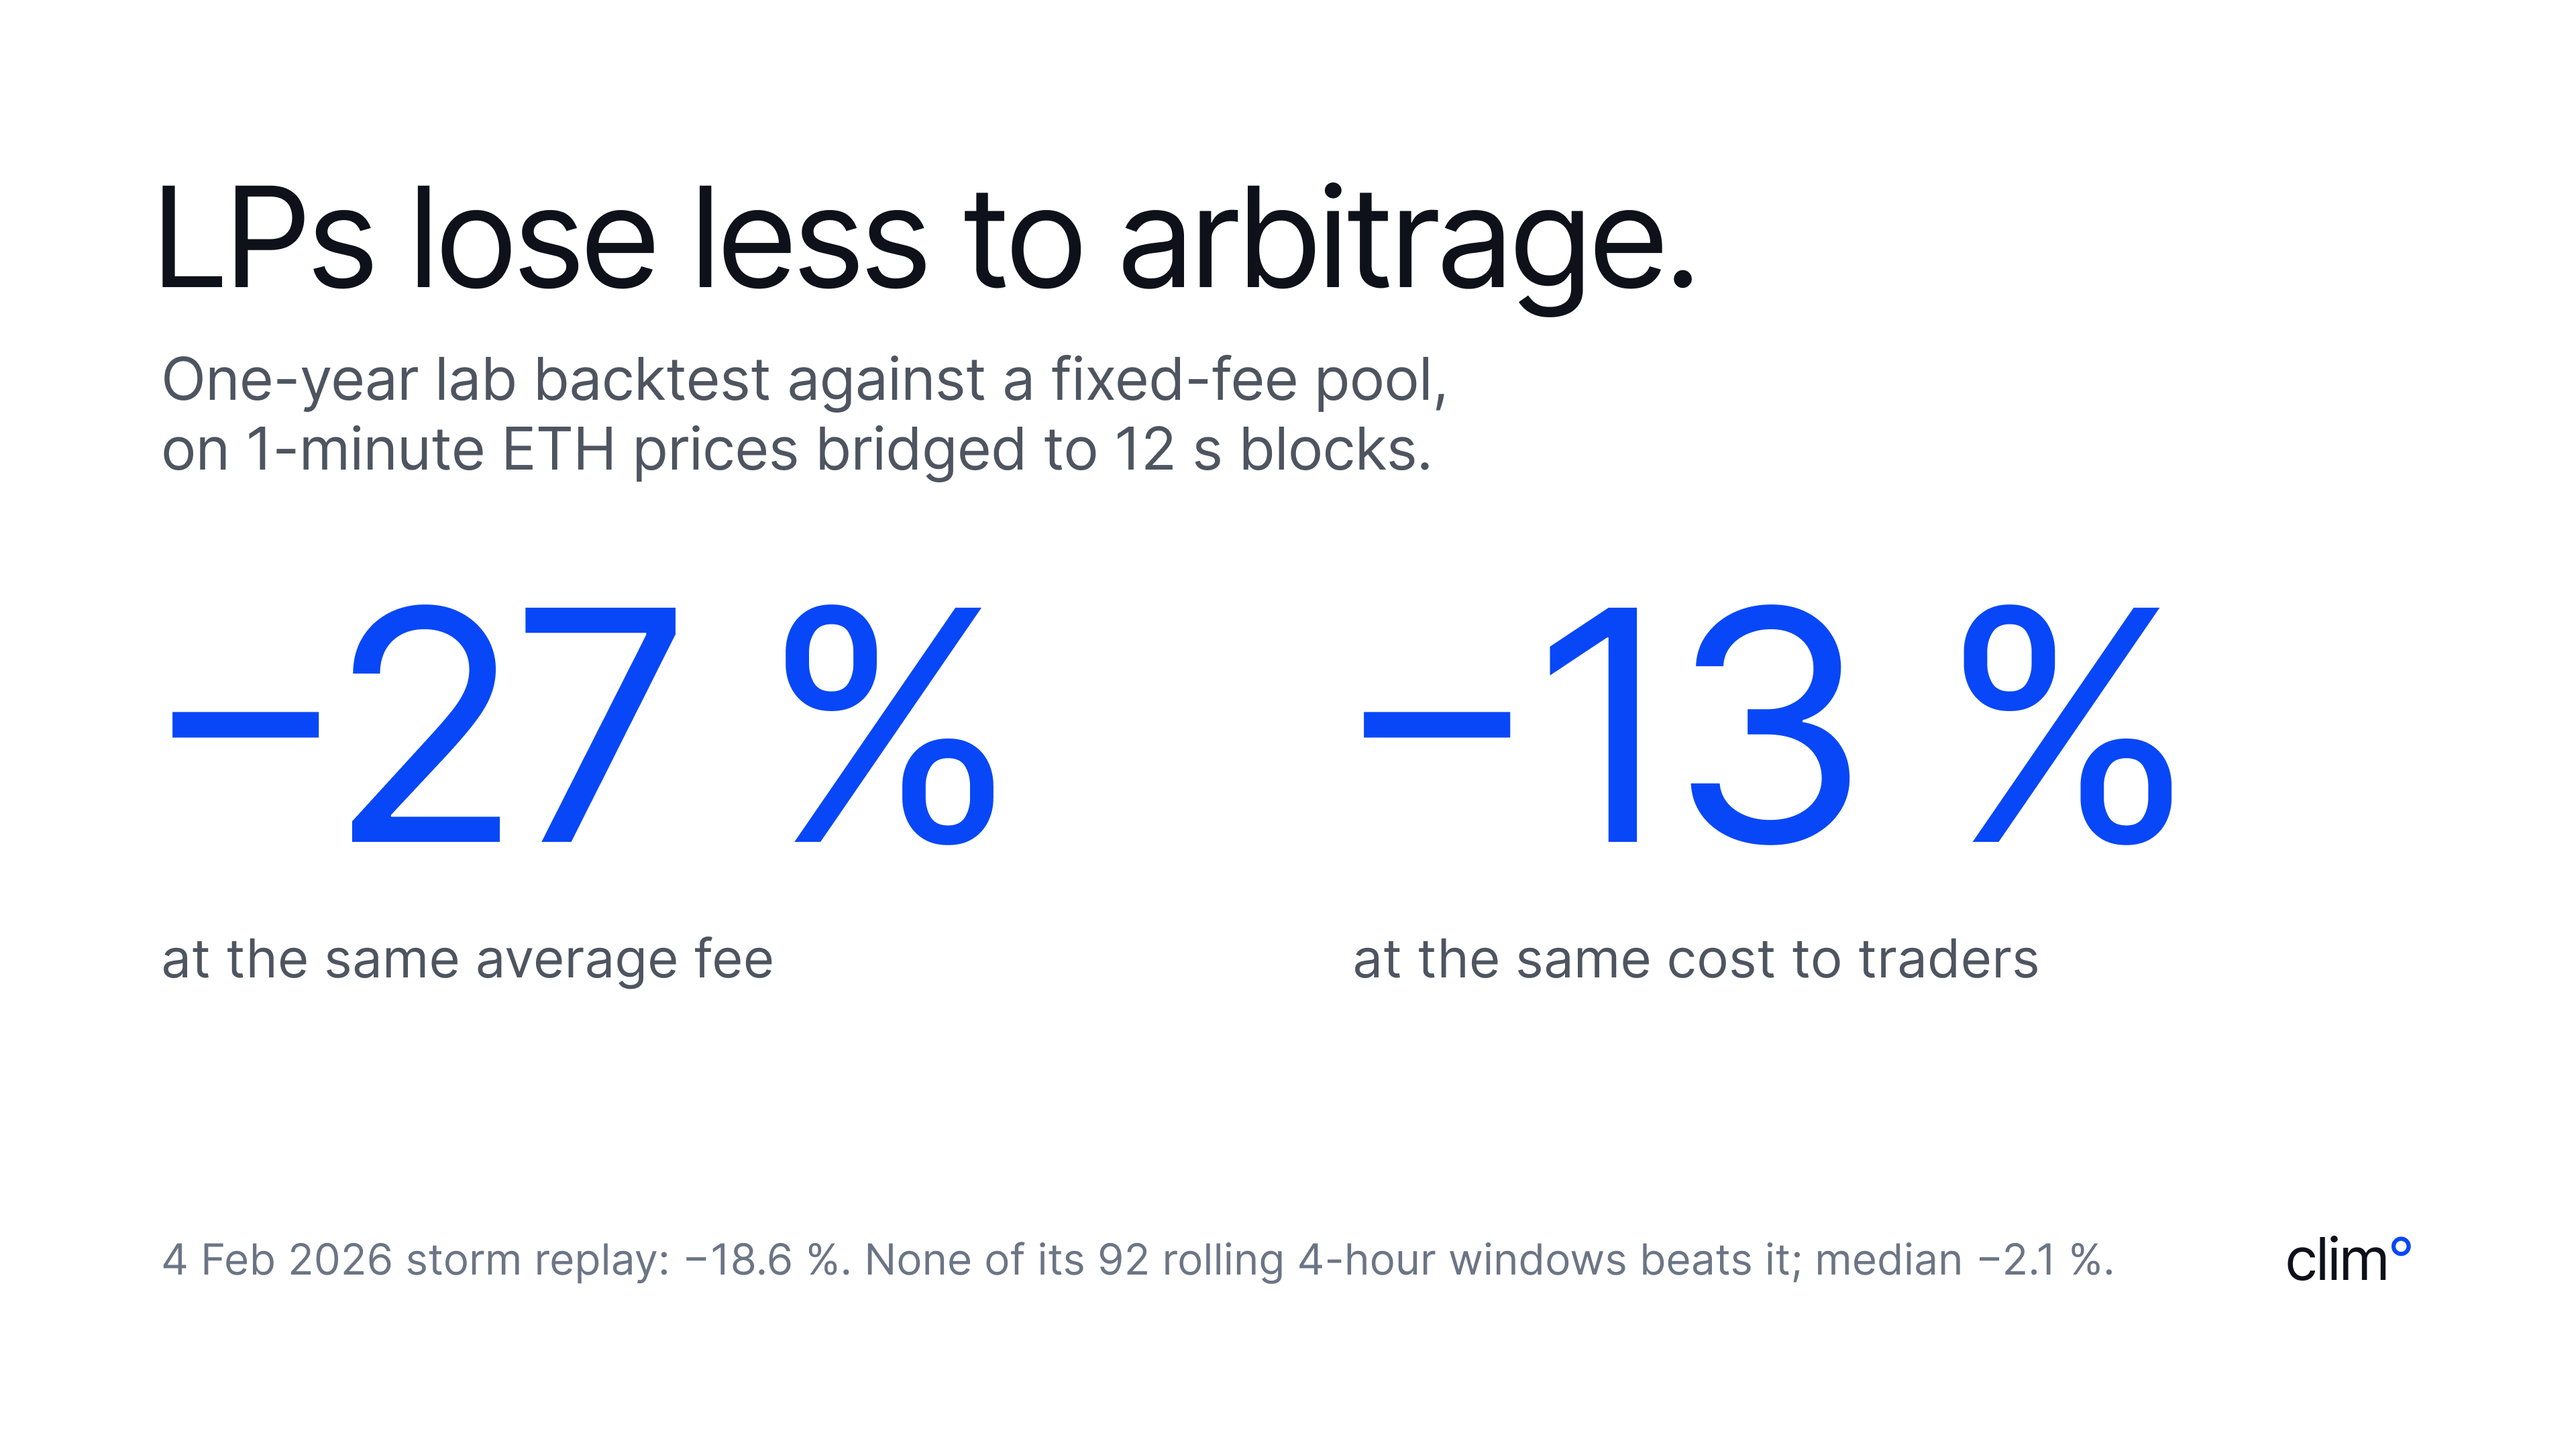
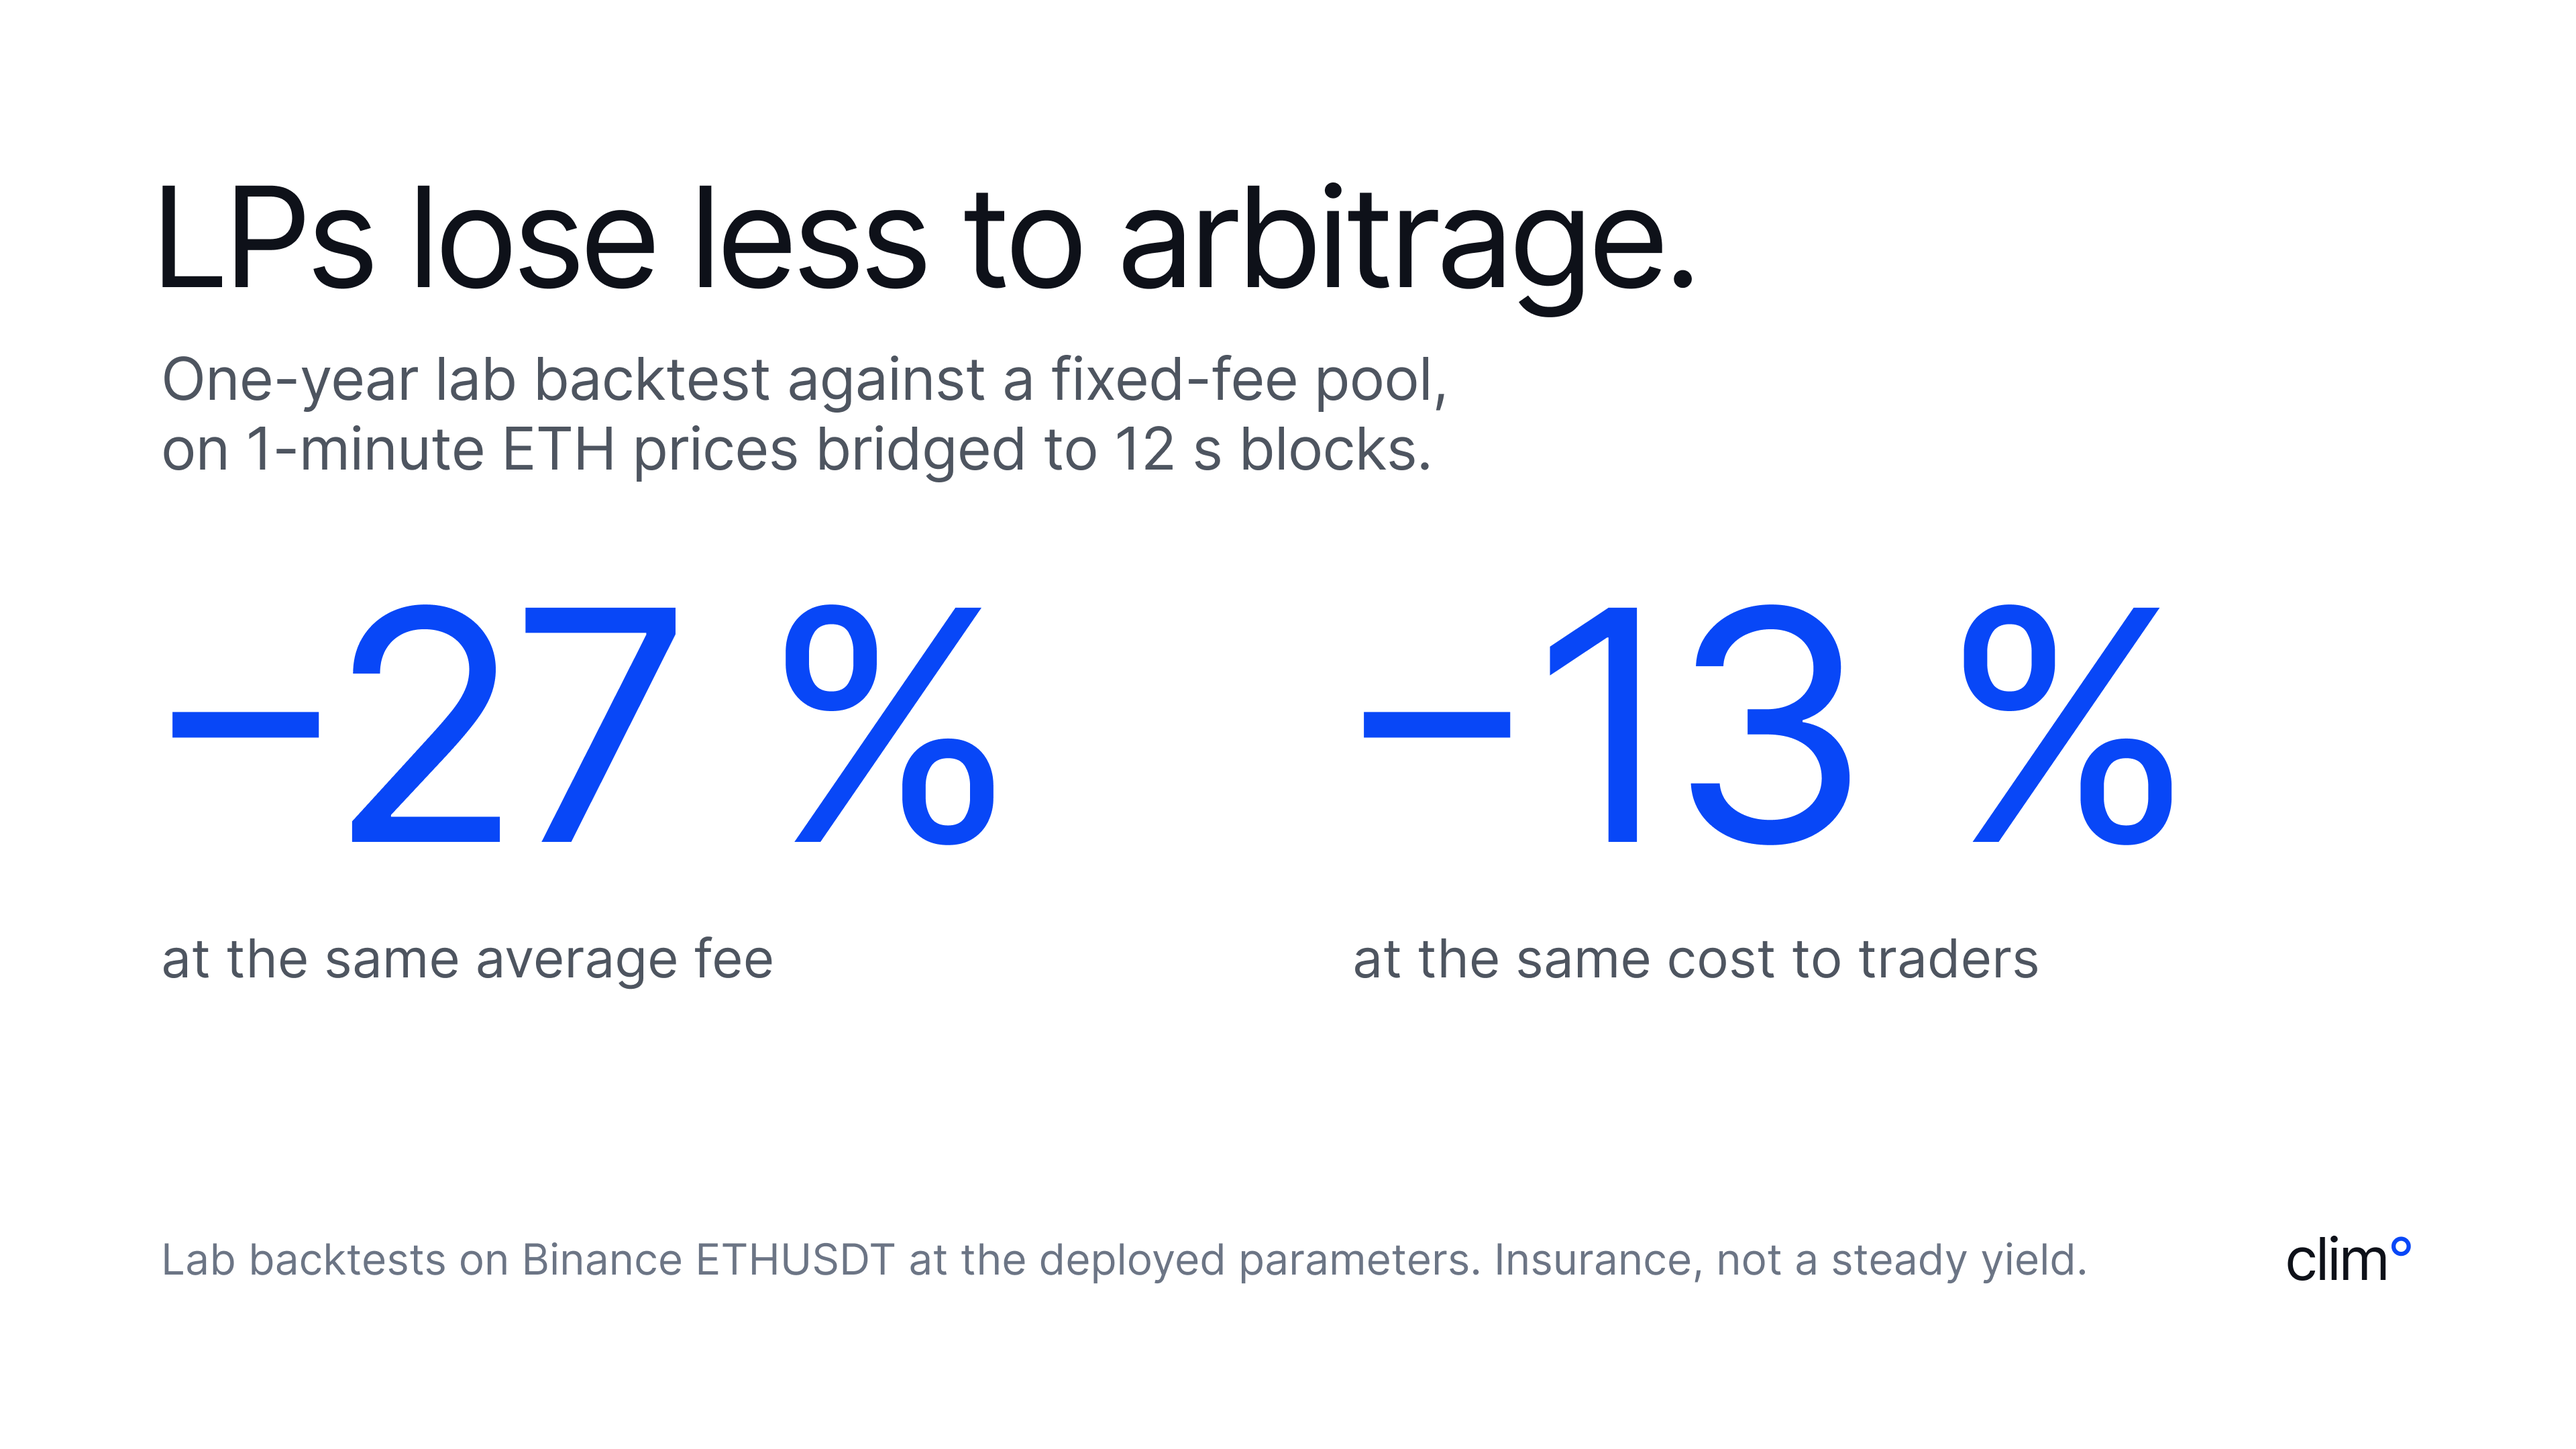
feat(deck): slide 05 drops the 4 February replay for a lab caveat; Figma frames now in the maintainer's Pres group
Claude-Session: https://claude.ai/code/session_018zWSbgeUgm6YTcK3tVvbqp

Changed region(s): [[0.0625, 0.8375, 0.8125, 0.8995]]

diff --git a/docs/superpowers/plans/2026-10-06-clim-06-demo-submission.md b/docs/superpowers/plans/2026-10-06-clim-06-demo-submission.md
@@ -3881,10 +3881,10 @@ Check: the stage cut is about 30 s and `audio=` is not empty (empty means no sou
 **Delegable:** yes for Steps 2 and 4; Step 3 needs the maintainer's Figma file (the maintainer, or an agent with the Figma MCP); Step 5 is the maintainer's (PowerPoint at the Mac)
 **Depends on:** Tasks 12, 16; the deck v2 builder (Task 9 history, commit `1a53016`, then the 10-slide cut)
 
-Rewritten on 2026-10-07 for deck v2, then for the 10-slide cut: the slides are PNGs exported from the maintainer's Figma file (section `198:2`), so a fix is made in Figma (and in `deck/v2/slides.json` when the text changes), never in the .pptx. Only the live report count changes at the last moment, and it is on slide 07 only.
+Rewritten on 2026-10-07 for deck v2, then for the 10-slide cut: the slides are PNGs exported from the maintainer's Figma file (since the evening of 2026-10-07, the 10 frames at 3840 x 2160 in the maintainer's group "token2049 > Pres", `204:320`, where he moved them; the 1x section `198:2`, the archive `162:2` and the logo kit `154:6` are gone), so a fix is made in Figma (and in `deck/v2/slides.json` when the text changes), never in the .pptx. Only the live report count changes at the last moment, and it is on slide 07 only.
 
 **Files:**
-- Modify: `docs/submission/deck/v2/live.json`, `docs/submission/deck/v2/png/07-live.png`; in Figma file `LyeDZ1KdOYws6nTzD8dI76`, two text nodes of frame `166:11` (slide 07)
+- Modify: `docs/submission/deck/v2/live.json`, `docs/submission/deck/v2/png/07-live.png`; in Figma file `LyeDZ1KdOYws6nTzD8dI76`, two text nodes of frame `204:212` (slide 07)
 - Create (gitignored): `docs/submission/out/clim.pptx`, `docs/submission/out/video/deck/` (the embedded copy of the stage video and its poster frame)
 
 - [x] **Step 1: The builder and its tests exist**
@@ -3909,9 +3909,9 @@ Expected: `{ "seq": <n>, "readUtc": "<d Mon HH:MM UTC>" }`, for example `"seq": 
 
 - [ ] **Step 3: Update slide 07 in Figma, then re-export it** **End of session.**
 
-In Figma file `LyeDZ1KdOYws6nTzD8dI76` (section `198:2`), put the same two values as `live.json` in slide 07 (frame `166:11`, "07 · What is live"), keeping the rest of each text and the number format of Step 2: `172:10` "LIVE seq" (the count) and `172:11` "LIVE seq read" (the read time). Slide 07 is the only slide with the live count since the 10-slide cut (the archived slide 19's nodes `168:50` and `168:52` are no longer exported).
+In Figma file `LyeDZ1KdOYws6nTzD8dI76` (group `204:320` "Pres"), put the same two values as `live.json` in slide 07 (frame `204:212`, "2x 07 · What is live"), keeping the rest of each text and the number format of Step 2: `204:216` "LIVE seq" (the count) and `204:217` "LIVE seq read" (the read time). Slide 07 is the only slide with the live count since the 10-slide cut (the archived slide 19's nodes `168:50` and `168:52` are no longer exported).
 
-Check that a longer number does not wrap or overlap, and that every other text in frame `166:11` matches slide 07's `text` in `slides.json` word for word. Fix any difference in Figma first. Export the frame as PNG at 2x over `docs/submission/deck/v2/png/07-live.png` (in Figma: select the frame, Export, 2x, PNG). Then:
+Check that a longer number does not wrap or overlap, and that every other text in frame `204:212` matches slide 07's `text` in `slides.json` word for word. Fix any difference in Figma first. Export the frame as PNG at 1x over `docs/submission/deck/v2/png/07-live.png` (the frame is already 3840 x 2160; in Figma: select the frame, Export, 1x, PNG). Then:
 ```bash
 cd /Users/fianso/Development/hackathons/clim/docs/submission/deck/v2/png && sips -g pixelWidth -g pixelHeight 07-live.png
 ```
@@ -4219,16 +4219,16 @@ Since 2026-10-07 the deck has 10 slides and no appendix: the maintainer cut it a
 
 | # | PNG (`deck/v2/png/`) | Figma frame | Title | The notes also carry | Video |
 |---|---|---|---|---|---|
-| 01 | `01-cover.png` | `154:7` | clim°: storm insurance for Uniswap v4 LPs | where each detail is in the notes |  |
-| 02 | `02-origin.png` | `154:8` | Where the idea comes from | why the loss grows with volatility (the old slide 03) |  |
-| 03 | `03-idea.png` | `164:2` | The idea: the fee follows the weather | the fee rule (the old appendix A1) |  |
-| 04 | `04-how.png` | `154:9` | How it works: nobody changes the fee by hand | the quorum and the degraded rule; the mentor's question 1 |  |
-| 05 | `05-results.png` | `166:2` | Does it work: LPs lose less to arbitrage | the 4 February storm (the old slide 06), the backtest's limits (A4) |  |
-| 06 | `06-prediction.png` | `167:17` | Not one more volatility fee |  |  |
-| 07 | `07-live.png` | `166:11` | What is live on Sepolia | safety (A3), the CRE evidence (A5), the live build's limits (A4); the live count (`live.json`) |  |
-| 08 | `08-demo.png` | `171:2` | Demo (stage version) | where the full video is | `demo-stage.mp4`, full-bleed |
-| 09 | `09-cre.png` | `198:3` | Why Chainlink CRE, and our feedback | why CRE (the old slide 12), the DON trust condition, the CRE evidence (A5), our feedback to Chainlink |  |
-| 10 | `10-roadmap.png` | `198:26` | Roadmap: not a new DEX, a fee engine for existing ones | the rollout with Fables (the old slide 11), a live pool (A2), the volume input, the team (the old slide 13), the Project link |  |
+| 01 | `01-cover.png` | `204:3` | clim°: storm insurance for Uniswap v4 LPs | where each detail is in the notes |  |
+| 02 | `02-origin.png` | `204:96` | Where the idea comes from | why the loss grows with volatility (the old slide 03) |  |
+| 03 | `03-idea.png` | `204:290` | The idea: the fee follows the weather | the fee rule (the old appendix A1) |  |
+| 04 | `04-how.png` | `204:127` | How it works: nobody changes the fee by hand | the quorum and the degraded rule; the mentor's question 1 |  |
+| 05 | `05-results.png` | `204:178` | Does it work: LPs lose less to arbitrage | the 4 February storm (the old slide 06), the backtest's limits (A4) |  |
+| 06 | `06-prediction.png` | `204:187` | Not one more volatility fee |  |  |
+| 07 | `07-live.png` | `204:212` | What is live on Sepolia | safety (A3), the CRE evidence (A5), the live build's limits (A4); the live count (`live.json`) |  |
+| 08 | `08-demo.png` | `204:221` | Demo (stage version) | where the full video is | `demo-stage.mp4`, full-bleed |
+| 09 | `09-cre.png` | `204:224` | Why Chainlink CRE, and our feedback | why CRE (the old slide 12), the DON trust condition, the CRE evidence (A5), our feedback to Chainlink |  |
+| 10 | `10-roadmap.png` | `204:252` | Roadmap: not a new DEX, a fee engine for existing ones | the rollout with Fables (the old slide 11), a live pool (A2), the volume input, the team (the old slide 13), the Project link |  |
 
 From the 20-slide version: 01 and 02 are unchanged; 03 was 04; 04 was 05, with the caption under the CRE logo now "CRE workflow: every 30 s, the median of the four"; 05 was 07, with the footnote "4 Feb 2026 storm replay: −18.6 %. None of its 92 rolling 4-hour windows beats it; median −2.1 %."; 06 was 08; 07 was 09; 08 was 10; 09 and 10 are new.
 

diff --git a/docs/sessions/2026-10-07.md b/docs/sessions/2026-10-07.md
@@ -244,3 +244,4 @@ Decisions, feedback and open questions that matter for the code. Non-code notes 
 - (app) Audit round 5, app findings: fee charts keep every blind and degraded step when downsampled; Safety panel dates its events; the P&L headline starts at the first priced swap; /lab shows ETH's +0.39 % next to "53 % of the gain"; wallet transactions are pinned to Sepolia; chart contrast and venue-map halos; the fixture FAQ's live-pool answer; the unused AnimatedCounter export (audit r5).
 - (app) On-chain history snapshot refreshed (plan 05 Task 26 re-run): app/public/data/chain/live.json covers blocks 11856974..11861976 (1,898 reports, 3,400 swaps, 2 refused deliveries), so the 7 October storm loads from the static file.
 - (app) /replay leads with the 7 October 2026 storm, priced live by the desk (section #latest, window 01:40 to 03:10 UTC: V's fee also left its floor at 03:21 to 03:28 for 5.12 bp, which a wider window would merge into the storm), every number computed from the live pair's logs (σ peak 242.1 %/yr in report 1119 at 02:11 UTC, V above its floor 51 min from 01:58 to 02:51, fees paid on V 5.00 to 26.50 bp, 97 of 105 V swaps above the floor and all 105 at the formula's fee, S 5.11 bp on its 115 swaps); the 4 February replay follows as an earlier example; the guide's Watch-it-run item and the landing's storm links point to 7 October (maintainer: the pitch's storm example is recent, since Fables went live) (app 30 files, 265 tests).
+- (deck) The maintainer moved the 10 slides into his own Figma group "token2049 > Pres" (204:320) as 3840 x 2160 frames (204:3 to 204:252) and removed the 1x section 198:2, the archive 162:2 and the logo kit 154:6; slides.json and plan 06 Task 17 now point at the new frames and live-count nodes (204:216, 204:217), exported at 1x. Slide 05's footnote no longer cites the 4 February replay (maintainer: the pitch's storm example is the recent 7 October live storm): "Lab backtests on Binance ETHUSDT at the deployed parameters. Insurance, not a steady yield."; its spoken notes point to the 7 October storm, and the 4 February lab replay stays in the unread sources.
